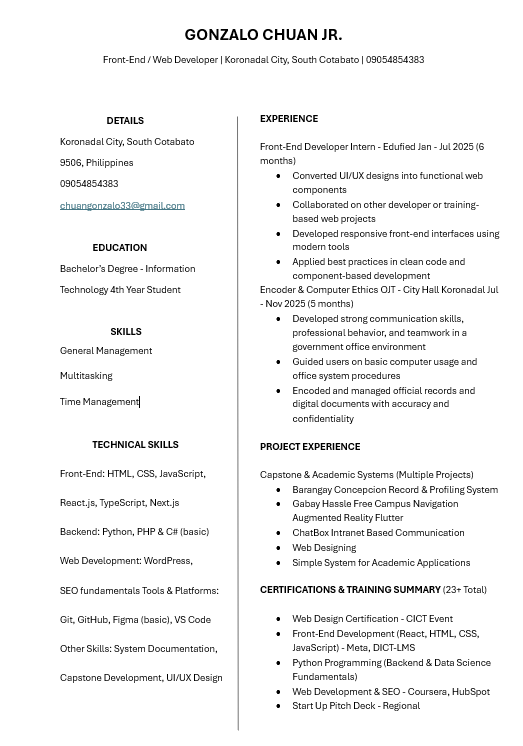
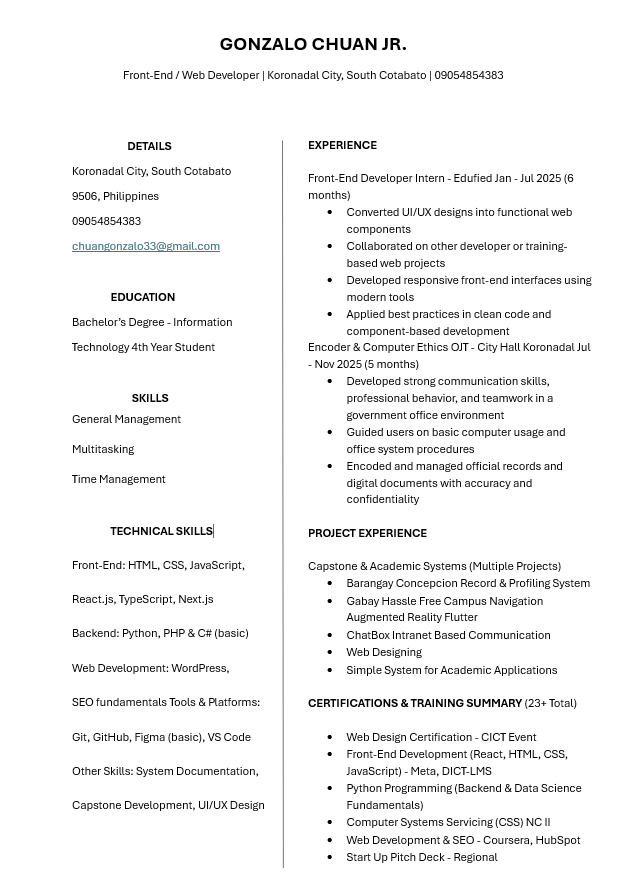
Fix resume display, integrate Cloudinary, and fix TS build errors

diff --git a/src/app/page.tsx b/src/app/page.tsx
@@ -1,3 +1,5 @@
+"use client";
+
 type SectionProps = { title: string; children: React.ReactNode };
 function Section({ title, children }: SectionProps) {
   return (
@@ -9,6 +11,7 @@ function Section({ title, children }: SectionProps) {
 }
 
 import Image from "next/image";
+import { CldImage } from "next-cloudinary";
 
 export default function Home() {
   return (
@@ -300,8 +303,8 @@ export default function Home() {
             // @ts-ignore
             return (
               <ResumeScroll className="w-full max-w-[92vw] sm:max-w-[560px] md:max-w-[700px] lg:max-w-[820px]">
-                <Image
-                  src="/image/resume.jpg"
+                <CldImage
+                  src="resume"
                   alt="Resume"
                   width={1240}
                   height={1754}

diff --git a/src/types/three-stdlib.d.ts b/src/types/three-stdlib.d.ts
@@ -1,0 +1,1 @@
+declare module 'three-stdlib';
